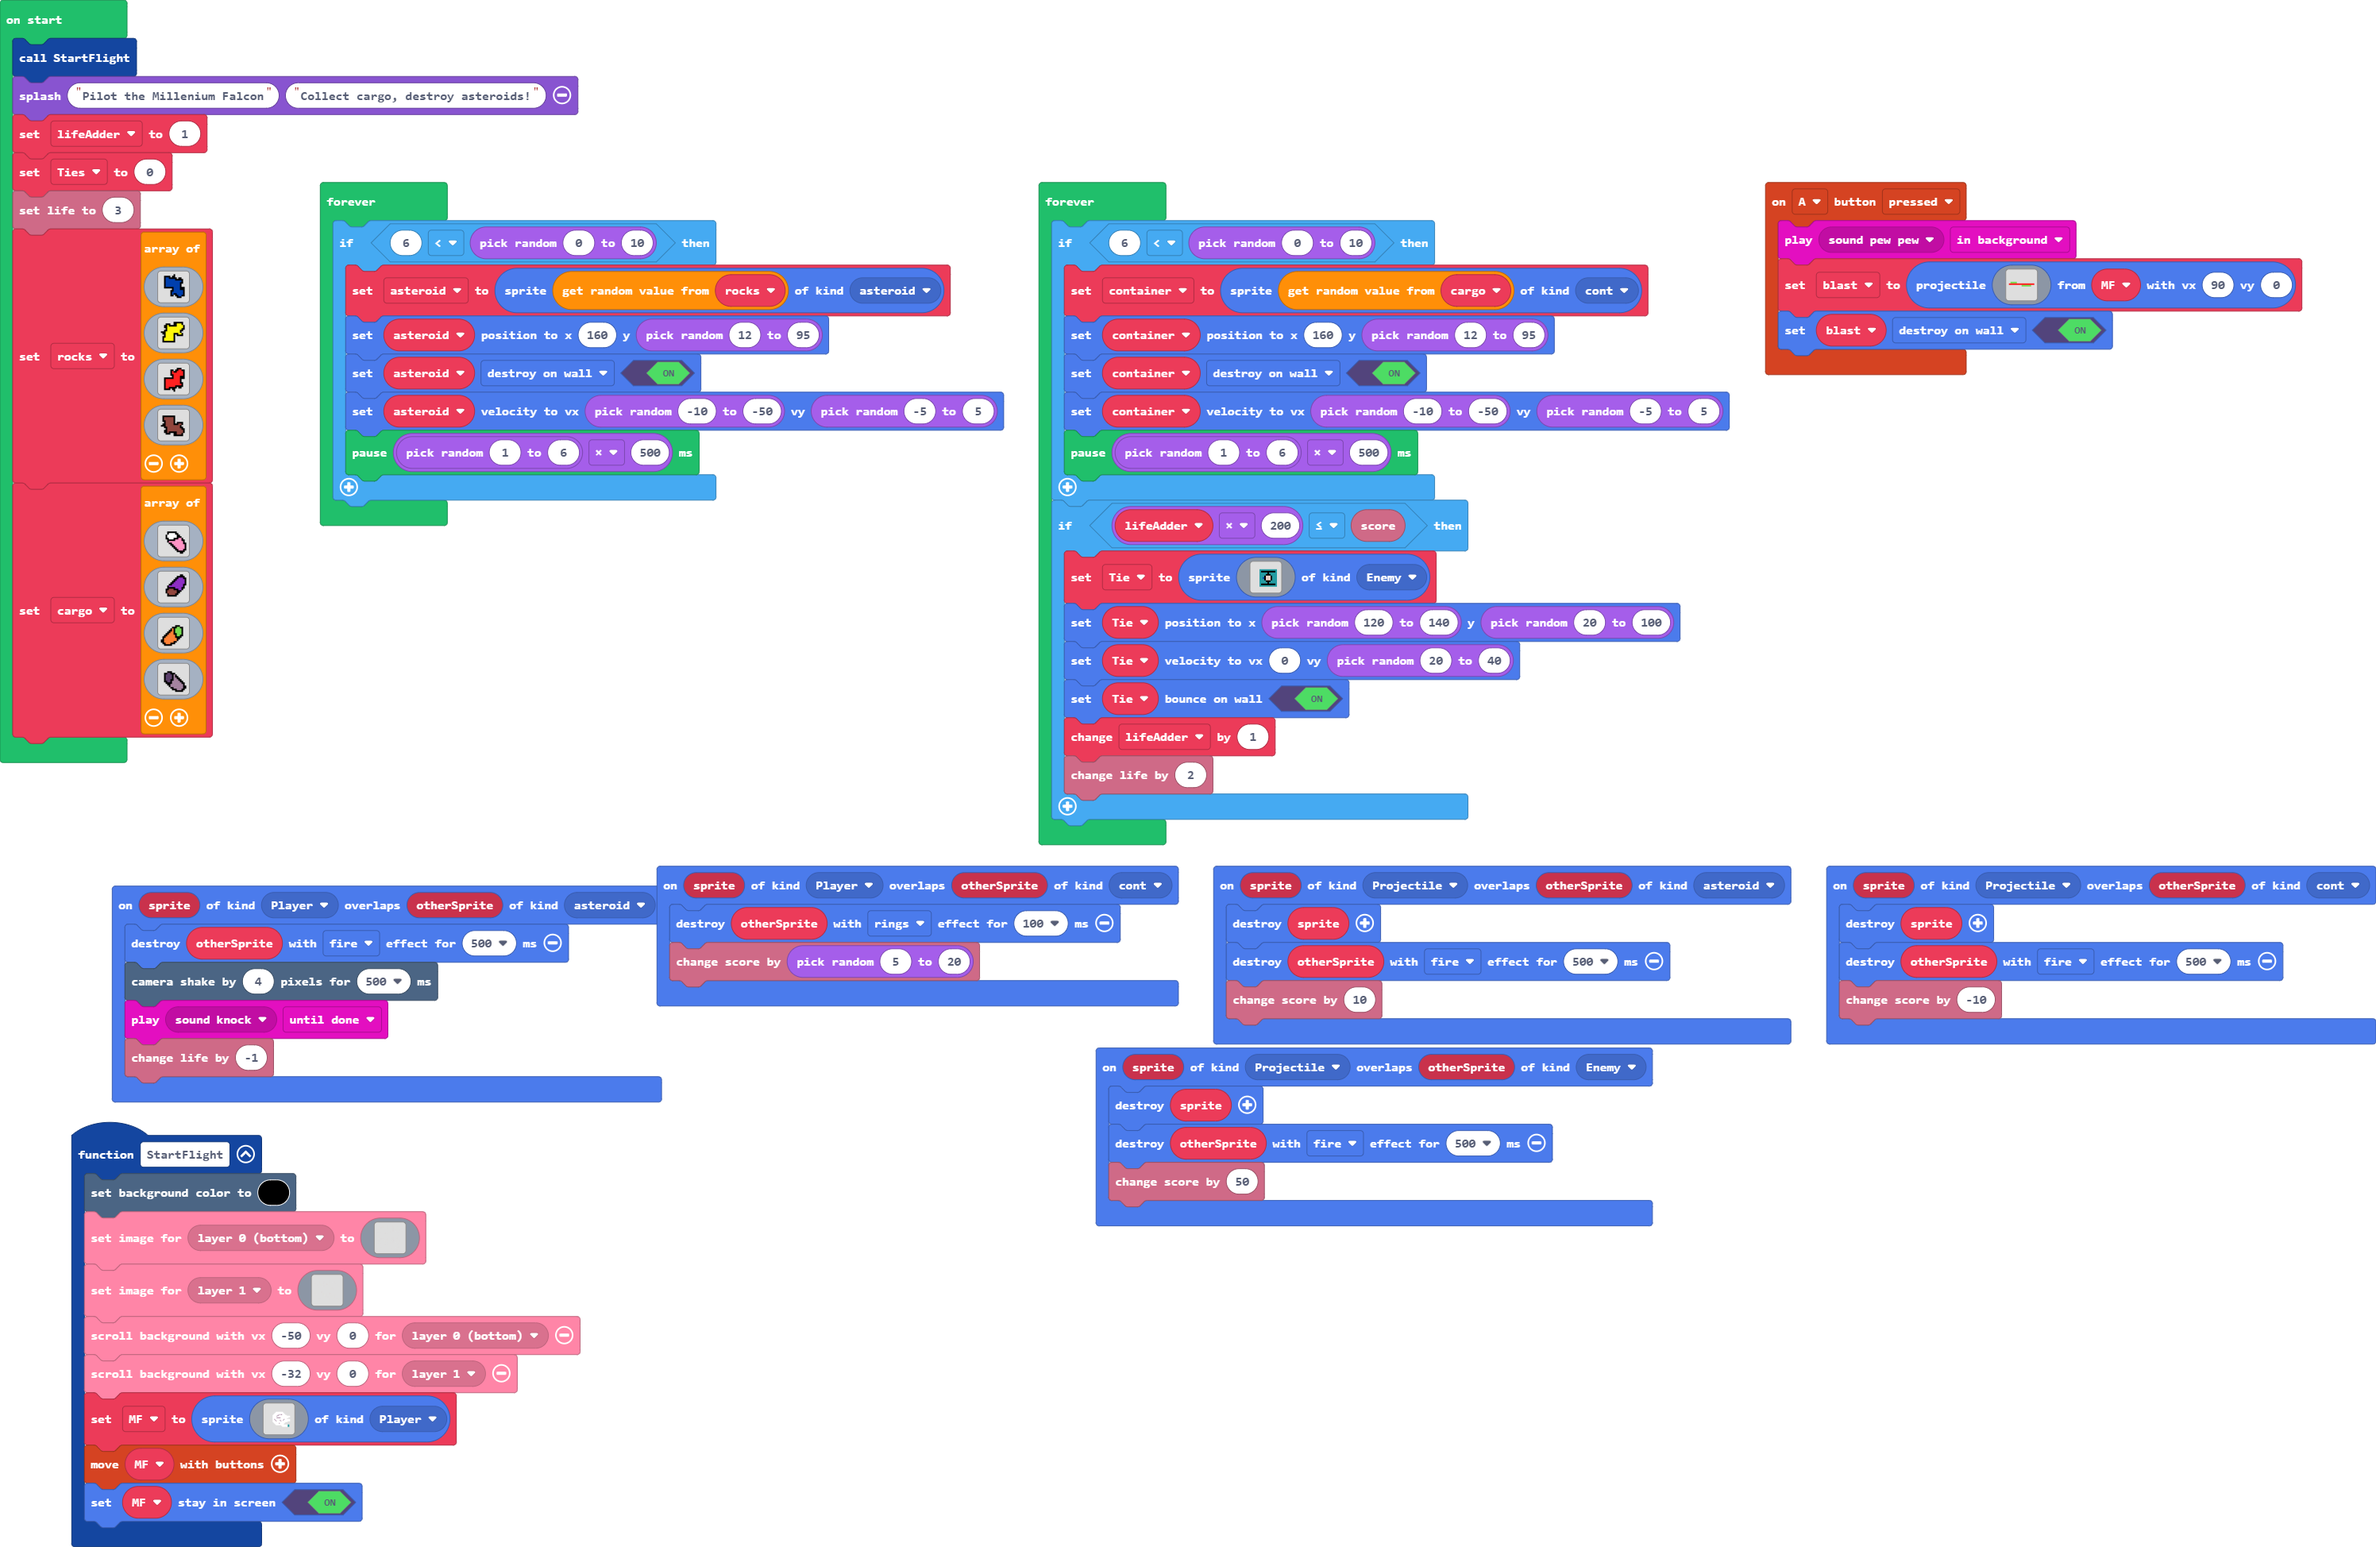
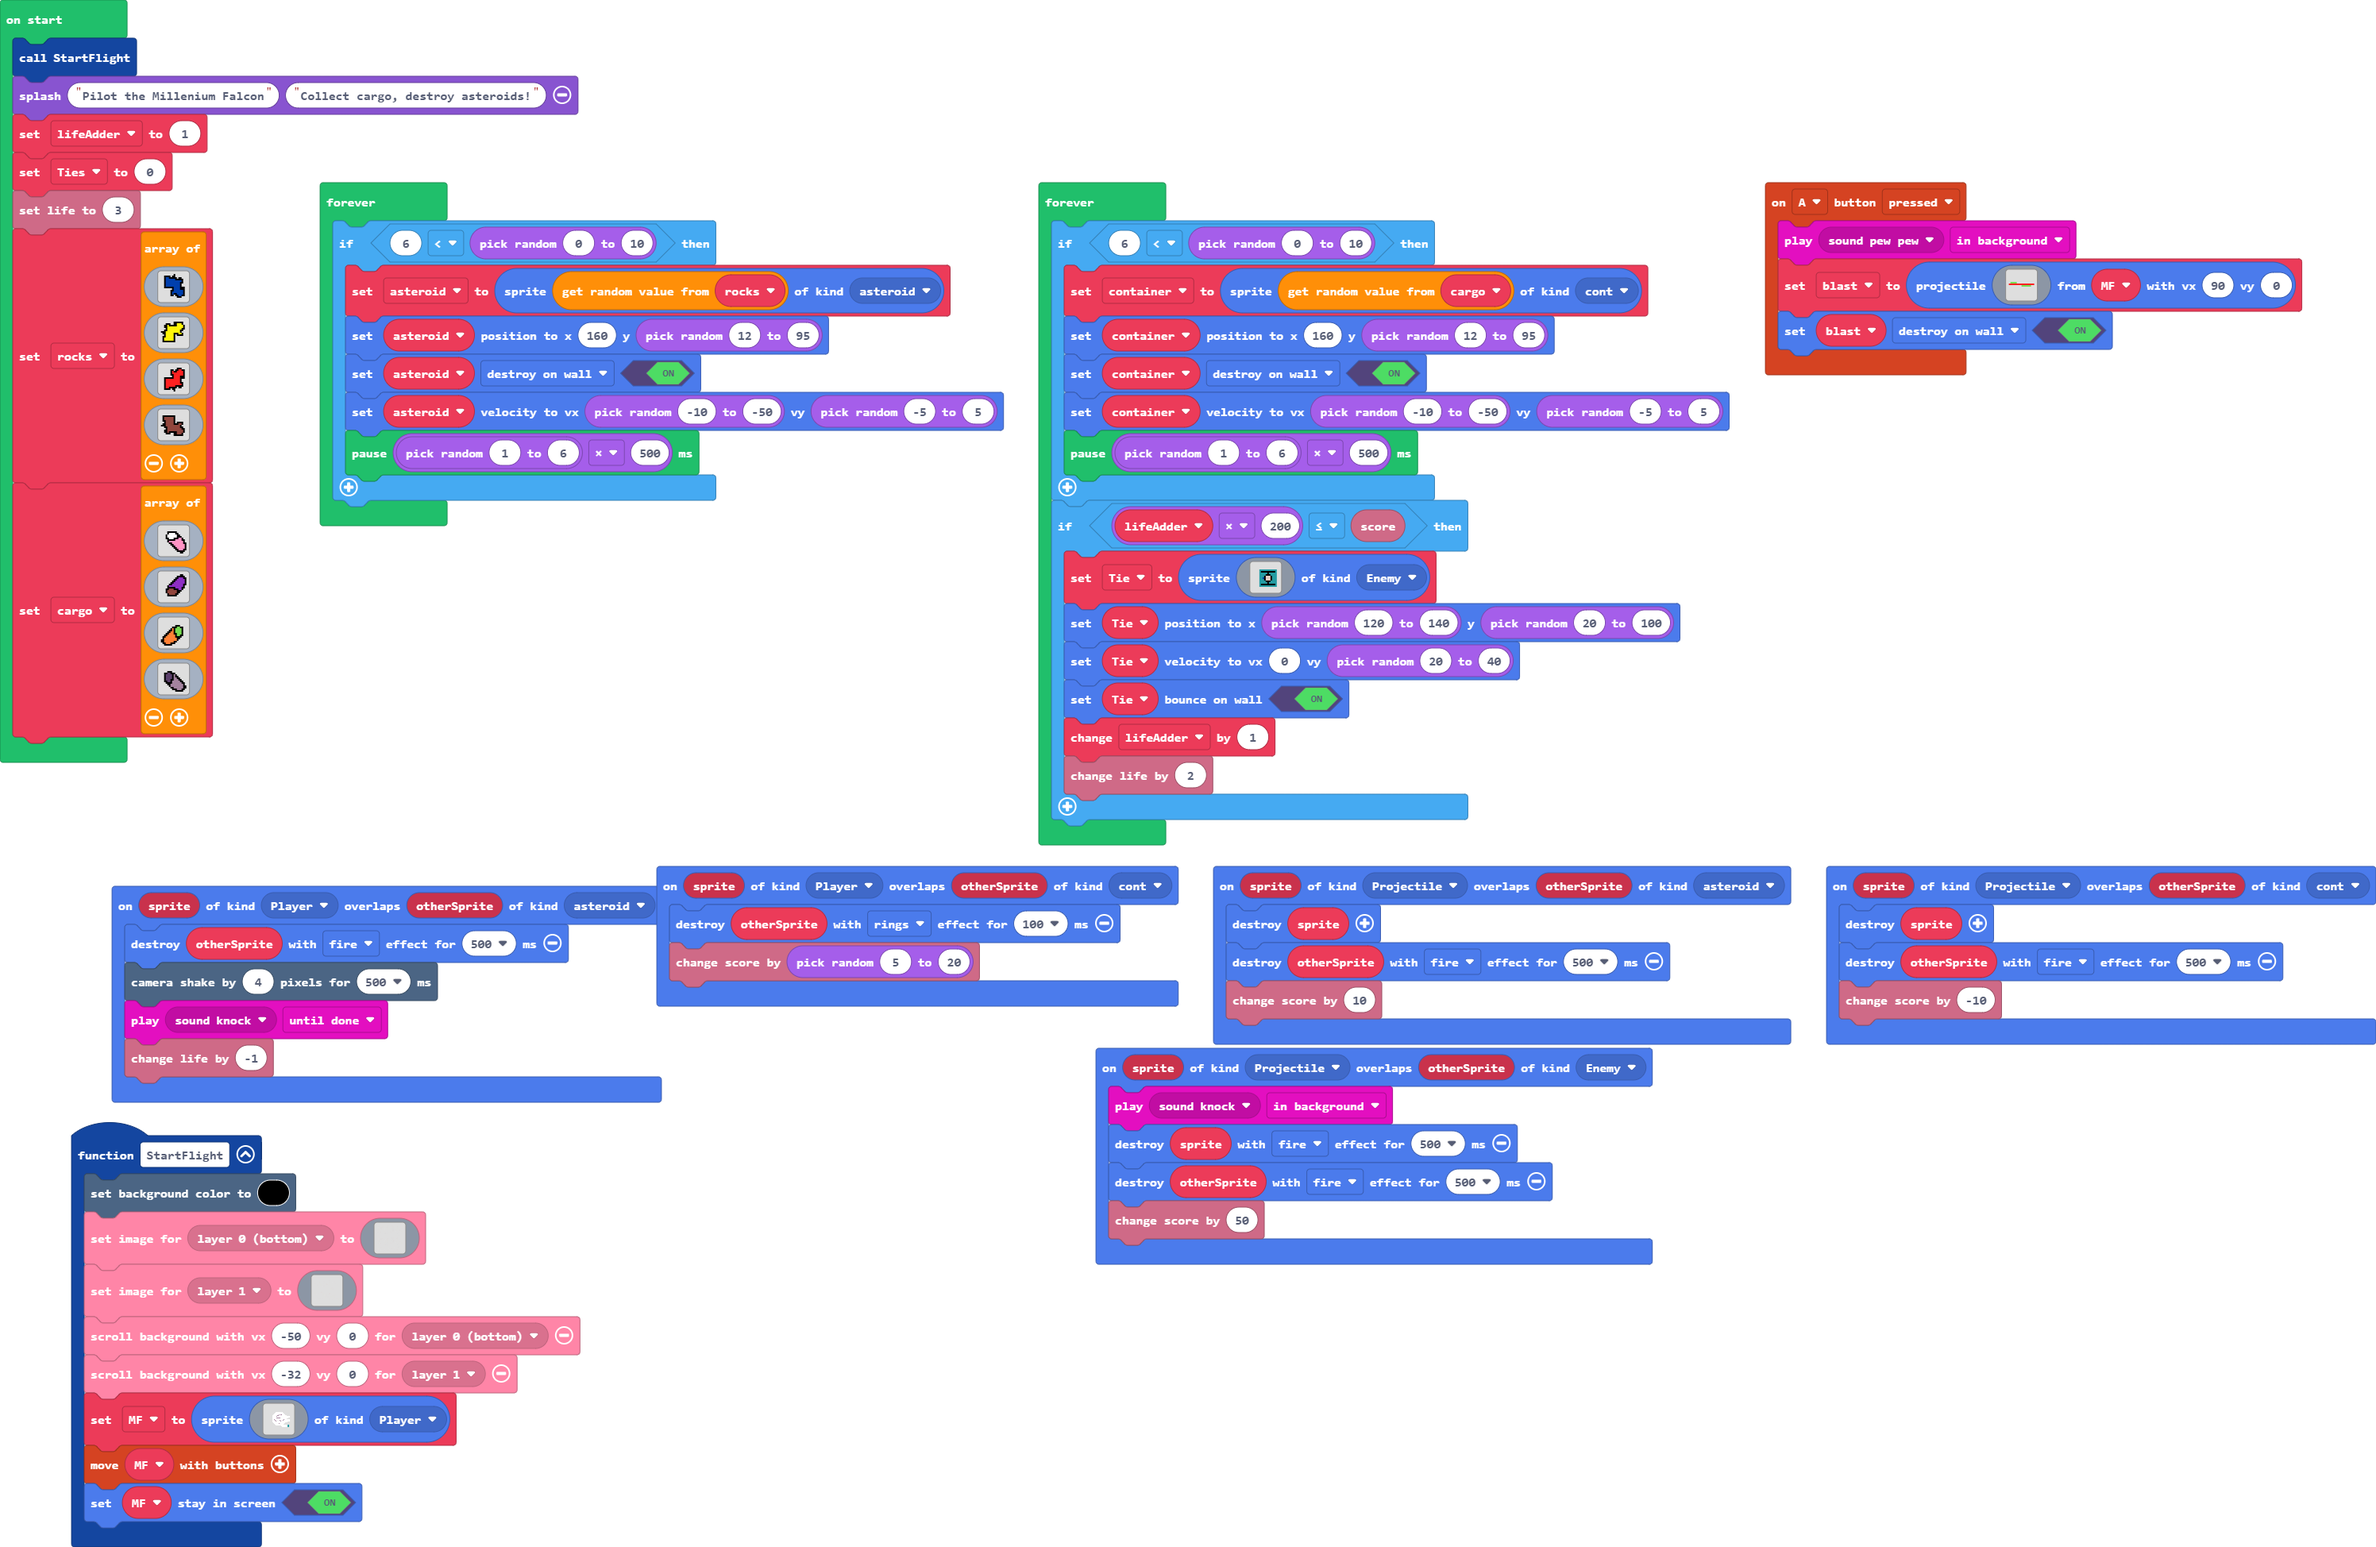
Update main.blocks, main.ts

diff --git a/main.ts b/main.ts
@@ -30,7 +30,8 @@ function StartFlight () {
     MF.setStayInScreen(true)
 }
 sprites.onOverlap(SpriteKind.Projectile, SpriteKind.Enemy, function (sprite, otherSprite) {
-    sprites.destroy(sprite)
+    music.play(music.melodyPlayable(music.knock), music.PlaybackMode.InBackground)
+    sprites.destroy(sprite, effects.fire, 500)
     sprites.destroy(otherSprite, effects.fire, 500)
     info.changeScoreBy(50)
 })
